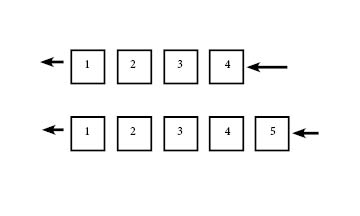
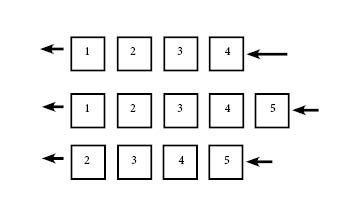
More performance details. Updated queue_image.jpg

Changed region(s): [[0.0917, 0.1667, 0.8861, 0.5556], [0.1222, 0.5833, 0.8861, 0.8333]]

diff --git a/01_queues.md b/01_queues.md
@@ -20,7 +20,10 @@ because to go through every item in the queue, a for loop needs to be used.
 
 Displaying the queue will require a few things. In these examples, we will use the following  
 code to create the new queues. The first class is Queue, and the queue will be held in
-the queue class. Each value being added will be added through the Node class.
+the queue class. Each value being added will be added through the Node class.  
+
+The __str__() function is added to make the queue output a lot easier to read  
+or understand.
 
 ```python
 class Queue:
@@ -61,7 +64,9 @@ class Queue:
 ```
 
 
-When adding to a queue, 
+When adding to a queue, this is a simple O(1) performance. A queue works off of FIFO (First in First out)  
+which means the first item to be added is the first item to be removed. In the image above, the first number is 1, then 2,  
+and so forth. When the number 5 was added, it was added at the end of the queue. 
 
 ## Two problems completed and made by me (first one needs to be completely solved and solution displayed)
 - how to add to a queue
